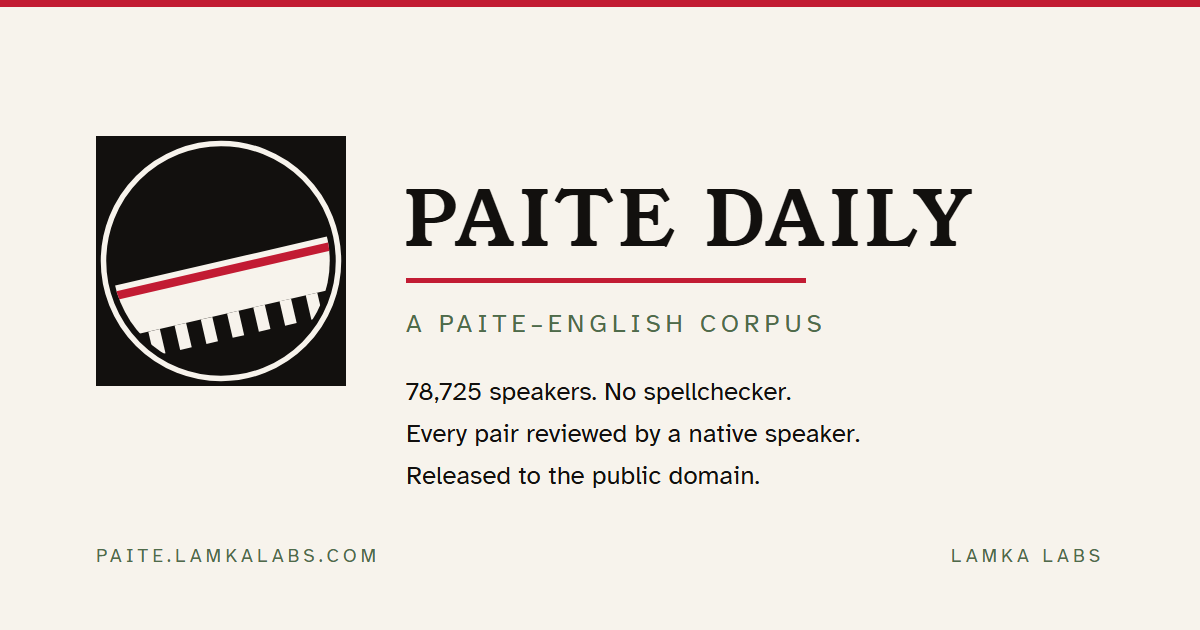
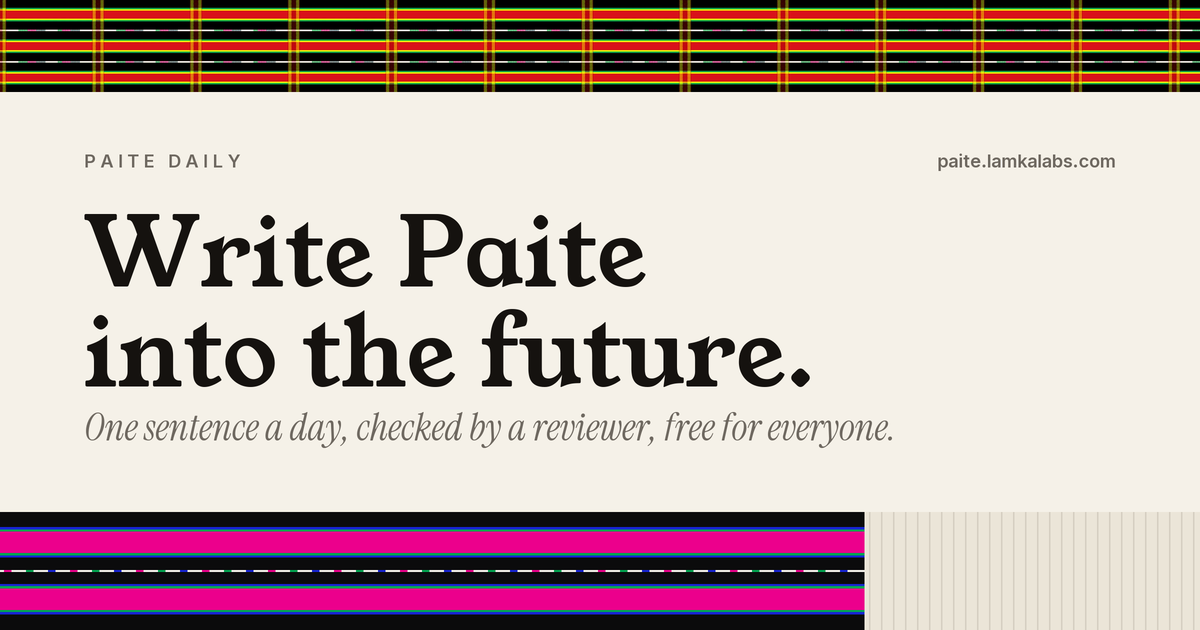
Community shawl in BA / Siamsin Puan, Paite upright / English italic, new share image
- The goal on the front page and Panlate is now one BA / Siamsin Puan woven by
  everyone (shawl.js): paite.org's Siamsin Puan colours (blue #1725d4, magenta
  #ec008c, green #00a651, black) in the real shawl's stripe order, broad magenta
  bands edged green then blue with a dotted white pick line between. Each
  verified sentence is one thread, twenty to a pass; it weaves in from the left
  when seen, shows the thread under the pointer, and keeps the progressbar for
  screen readers.
- Paite upright, English italic: Instrument Serif Italic added to every page;
  English glosses (labels, buttons, rows, chat, titles) set in it under the
  Paite in Young Serif, replacing the stacked small capitals.
- New share image (og.png, 1200x630) in the Ink look; og:image URLs versioned
  (?v=2) so link previews refetch it.
- theme-color follows the theme: paper by day, ink at night.
- Service worker cache raised to v70 and shawl.js precached.

diff --git a/public/shawl.js b/public/shawl.js
@@ -1,0 +1,93 @@
+// The community shawl: the goal drawn as one BA / Siamsin Puan that everyone weaves together.
+// BA / Siamsin Puan is the shawl given to learners who achieve something, so the corpus wears it.
+// Every verified sentence is one thread; the shawl is woven along its length from the left,
+// twenty threads to a pass, until the goal is reached. Colours are paite.org's recommended codes
+// for Siamsin Puan (blue #1725d4, magenta #ec008c, green #00a651, black); the stripe order across
+// the cloth follows the real shawl: broad magenta bands edged green then blue, on black, with a
+// thin white pick line dotted in colour running through the black between them.
+// The numbers come from the goal's progressbar (aria-valuenow / aria-valuemax), filled by app.js
+// on the front page and by the server on Panlate. It weaves in once when it comes into view,
+// holds still for people who ask for reduced motion, and redraws when the theme changes.
+(() => {
+  const c = document.querySelector("canvas.kp"), bar = document.querySelector(".goal-bar[role=progressbar]");
+  if (!c || !bar || !c.getContext) return;
+  const g = c.getContext("2d"), tip = document.querySelector(".kp-tip");
+  const still = matchMedia("(prefers-reduced-motion: reduce)").matches;
+  const BLUE = "#1725d4", PINK = "#ec008c", GREEN = "#00a651", BLACK = "#0b0b0c";
+  // Across the cloth, top to bottom: [colour, weight]. "pick" is the dotted white line.
+  const SETT = [[BLACK, 3], [BLUE, .45], [GREEN, .45], [PINK, 4.2], [GREEN, .45], [BLUE, .45], [BLACK, 2.3], ["pick", .55], [BLACK, 2.3],
+    [BLUE, .45], [GREEN, .45], [PINK, 4.2], [GREEN, .45], [BLUE, .45], [BLACK, 3]];
+  const TOTAL = SETT.reduce((s, [, w]) => s + w, 0), PASS = 20;
+  let W = 0, H = 0, done = 0, goal = 0, shown = 0, t0 = 0, raf = 0, seen = false;
+
+  const light = () => document.documentElement.dataset.theme === "light";
+  function size() {
+    const d = Math.min(devicePixelRatio || 1, 2), r = c.getBoundingClientRect();
+    W = r.width; H = r.height; c.width = Math.max(1, W * d); c.height = Math.max(1, H * d); g.setTransform(d, 0, 0, d, 0, 0);
+  }
+  function draw(n) {
+    const cols = Math.max(1, Math.ceil(goal / PASS)), cw = W / cols, wovenX = (n / goal) * W;
+    // Bare warp: the loom before the weft goes in.
+    g.fillStyle = light() ? "#ebe5d8" : "#1b1917"; g.fillRect(0, 0, W, H);
+    g.fillStyle = light() ? "rgba(21,18,15,.10)" : "rgba(244,241,234,.08)";
+    for (let x = 0; x < cols; x++) g.fillRect(x * cw + cw * .45, 0, Math.max(.6, cw * .12), H);
+    if (n <= 0) return;
+    g.save(); g.beginPath(); g.rect(0, 0, wovenX, H); g.clip();
+    let y = 0;
+    for (const [col, w] of SETT) {
+      const h = (w / TOTAL) * H;
+      if (col === "pick") {
+        g.fillStyle = BLACK; g.fillRect(0, y, W, h);
+        const ly = y + h * .3, lh = Math.max(1, h * .4);
+        g.fillStyle = "#f4f1ea"; g.fillRect(0, ly, W, lh);
+        // The small coloured dashes woven into the pick line.
+        const step = Math.max(10, H * .09), dots = [PINK, GREEN, BLUE];
+        for (let x = 4, i = 0; x < W; x += step, i++) { g.fillStyle = dots[i % 3]; g.fillRect(x, ly, step * .32, lh); }
+      } else { g.fillStyle = col; g.fillRect(0, y, W, Math.ceil(h) + .5); }
+      y += h;
+    }
+    // Twill: fine diagonal shadow, so it reads as cloth.
+    g.strokeStyle = "rgba(0,0,0,.16)"; g.lineWidth = 1; g.beginPath();
+    for (let k = -H; k < wovenX; k += 4) { g.moveTo(k, 0); g.lineTo(k + H, H); } g.stroke();
+    g.restore();
+    // The shuttle at the edge of the work.
+    if (n < goal) {
+      const grd = g.createLinearGradient(wovenX - 26, 0, wovenX + 4, 0);
+      grd.addColorStop(0, "rgba(255,255,255,0)"); grd.addColorStop(1, "rgba(255,226,240,.55)");
+      g.fillStyle = grd; g.fillRect(wovenX - 26, 0, 30, H);
+    }
+  }
+  const frame = (t) => {
+    const p = Math.min(1, (t - t0) / 2600), e = 1 - Math.pow(1 - p, 3);
+    shown = Math.round(done * e); draw(shown);
+    raf = p < 1 ? requestAnimationFrame(frame) : 0;
+  };
+  function start() {
+    done = +bar.getAttribute("aria-valuenow") || 0; goal = +bar.getAttribute("aria-valuemax") || 0;
+    if (!goal) return;
+    size();
+    if (still || seen) { shown = done; draw(done); return; }
+    seen = true; t0 = performance.now(); cancelAnimationFrame(raf); raf = requestAnimationFrame(frame);
+  }
+  // Wait until the numbers are in and the shawl is on screen.
+  const io = "IntersectionObserver" in window
+    ? new IntersectionObserver(([e]) => { if (e.isIntersecting && bar.getAttribute("aria-valuemax")) { io.disconnect(); start(); } })
+    : null;
+  const watch = () => { if (io) io.observe(c); else start(); };
+  if (bar.getAttribute("aria-valuemax")) watch();
+  else new MutationObserver((_, o) => { if (bar.getAttribute("aria-valuemax")) { o.disconnect(); watch(); } }).observe(bar, { attributes: true });
+  addEventListener("resize", () => { if (goal) { size(); draw(shown); } });
+  new MutationObserver(() => { if (goal) draw(shown); }).observe(document.documentElement, { attributes: true, attributeFilter: ["data-theme"] });
+
+  // Hover: which thread is under the pointer.
+  if (tip) {
+    c.addEventListener("pointermove", (e) => {
+      if (!goal) return;
+      const r = c.getBoundingClientRect(), cols = Math.ceil(goal / PASS), x = Math.floor(((e.clientX - r.left) / r.width) * cols), y = Math.floor(((e.clientY - r.top) / r.height) * PASS);
+      const i = Math.min(goal, x * PASS + y + 1);
+      tip.textContent = i <= shown ? `Thread ${i.toLocaleString("en")}` : `Thread ${i.toLocaleString("en")} · not woven yet`;
+      tip.style.left = (e.clientX - r.left) + "px"; tip.style.top = (e.clientY - r.top) + "px"; tip.hidden = false;
+    });
+    c.addEventListener("pointerleave", () => { tip.hidden = true; });
+  }
+})();

diff --git a/src/contributors.ts b/src/contributors.ts
@@ -143,7 +143,7 @@ export function wallNames(d: Pick<Contributors, "contributors" | "reviewers">): 
 // The ranking shows this many places; everyone below folds into one compact box.
 const TOP = 10;
 const goalBar = (g: { verified: number; goal: number }) =>
-  `<div class="goal"><div class="goal-t"><b>${g.verified}</b> / ${g.goal} <span data-s="goalLine">Verified Sentences</span></div><div class="goal-bar" role="progressbar" aria-valuemin="0" aria-valuemax="${g.goal}" aria-valuenow="${g.verified}"><i style="width:${Math.min(100, Math.round((g.verified / g.goal) * 100))}%"></i></div></div>`;
+  `<div class="goal kp-goal"><div class="kp-head"><div class="kp-n"><b>${g.verified}</b><span> / ${g.goal}</span> <span class="kp-unit" data-s="goalLine">Verified Sentences</span></div><div class="kp-name"><b>BA / Siamsin Puan</b><i>The shawl we weave together</i></div></div><div class="kp-wrap"><canvas class="kp" aria-hidden="true"></canvas><span class="kp-tip" hidden></span></div><div class="goal-bar" role="progressbar" aria-label="Verified sentences toward the goal" aria-valuemin="0" aria-valuemax="${g.goal}" aria-valuenow="${g.verified}"><i style="width:${Math.min(100, Math.round((g.verified / g.goal) * 100))}%"></i></div><p class="kp-note">Every thread is one verified sentence, given by one person and checked by another.</p></div><script src="/shawl.js" defer></script>`;
 
 export function renderPage(d: Contributors, css = '<link rel="stylesheet" href="/contributors.css">', siteKey = ""): string {
   const names = wallNames(d);
@@ -184,7 +184,7 @@ export function renderPage(d: Contributors, css = '<link rel="stylesheet" href="
   return `<!doctype html>
 <html lang="en"><head><meta charset="utf-8"><meta name="viewport" content="width=device-width, initial-scale=1, viewport-fit=cover">
 <title>Panlate - Contributors</title>
-<meta name="theme-color" content="#ffffff">
+<meta name="theme-color" content="#f5f1e8">
 <link rel="canonical" href="https://paite.lamkalabs.com/contributors">
 <meta property="og:site_name" content="Paite Daily">
 <meta property="og:type" content="website">
@@ -192,14 +192,14 @@ export function renderPage(d: Contributors, css = '<link rel="stylesheet" href="
 <meta property="og:url" content="https://paite.lamkalabs.com/contributors">
 <meta property="og:title" content="Contributors of Paite Daily">
 <meta property="og:description" content="The people writing Paite into the future. See this week's contributors and reviewers, and add a sentence.">
-<meta property="og:image" content="https://paite.lamkalabs.com/og.png">
+<meta property="og:image" content="https://paite.lamkalabs.com/og.png?v=2">
 <meta property="og:image:width" content="1200">
 <meta property="og:image:height" content="630">
 <meta property="og:image:alt" content="Paite Daily: a Paite–English corpus, verified by native speakers.">
 <meta name="twitter:card" content="summary_large_image">
 <meta name="twitter:title" content="Contributors of Paite Daily">
 <meta name="twitter:description" content="The people writing Paite into the future. See this week's contributors and reviewers, and add a sentence.">
-<meta name="twitter:image" content="https://paite.lamkalabs.com/og.png">
+<meta name="twitter:image" content="https://paite.lamkalabs.com/og.png?v=2">
 <meta name="twitter:image:alt" content="Paite Daily: a Paite–English corpus, verified by native speakers.">
 <link rel="manifest" href="/manifest.webmanifest">
 <link rel="apple-touch-icon" href="/icons/apple-touch-icon.png">
@@ -209,7 +209,7 @@ export function renderPage(d: Contributors, css = '<link rel="stylesheet" href="
 <script>document.documentElement.className="js"</script>
 <link rel="preconnect" href="https://fonts.googleapis.com">
 <link rel="preconnect" href="https://fonts.gstatic.com" crossorigin>
-<link rel="stylesheet" href="https://fonts.googleapis.com/css2?family=Young+Serif&family=Inter:wght@400;600;700&display=swap">
+<link rel="stylesheet" href="https://fonts.googleapis.com/css2?family=Young+Serif&family=Instrument+Serif:ital@1&family=Inter:wght@400;600;700&display=swap">
 <link rel="stylesheet" href="/style.css">
 <script src="/theme.js"></script>
 ${css}</head>

diff --git a/public/index.html b/public/index.html
@@ -4,7 +4,7 @@
 <meta charset="utf-8">
 <meta name="viewport" content="width=device-width, initial-scale=1, viewport-fit=cover">
 <title>Paite Daily — a Paite–English corpus</title>
-<meta name="theme-color" content="#ffffff">
+<meta name="theme-color" content="#f5f1e8">
 <link rel="manifest" href="/manifest.webmanifest">
 <link rel="apple-touch-icon" href="/icons/apple-touch-icon.png">
 <link rel="icon" href="/favicon.ico" sizes="32x32">
@@ -18,18 +18,18 @@
 <meta property="og:url" content="https://paite.lamkalabs.com/">
 <meta property="og:title" content="Paite Daily — a Paite word corpus">
 <meta property="og:description" content="Verified Paite–English pairs, reviewed by native speakers, free to use with credit (CC BY 4.0) for any keyboard, dictionary or translation project.">
-<meta property="og:image" content="https://paite.lamkalabs.com/og.png">
+<meta property="og:image" content="https://paite.lamkalabs.com/og.png?v=2">
 <meta property="og:image:width" content="1200">
 <meta property="og:image:height" content="630">
 <meta property="og:image:alt" content="Paite Daily: a Paite–English corpus, verified by native speakers.">
 <meta name="twitter:card" content="summary_large_image">
 <meta name="twitter:title" content="Paite Daily — a Paite word corpus">
 <meta name="twitter:description" content="Verified Paite–English pairs, reviewed by native speakers, free to use with credit (CC BY 4.0).">
-<meta name="twitter:image" content="https://paite.lamkalabs.com/og.png">
+<meta name="twitter:image" content="https://paite.lamkalabs.com/og.png?v=2">
 <meta name="twitter:image:alt" content="Paite Daily: a Paite–English corpus, verified by native speakers.">
 <link rel="preconnect" href="https://fonts.googleapis.com">
 <link rel="preconnect" href="https://fonts.gstatic.com" crossorigin>
-<link rel="stylesheet" href="https://fonts.googleapis.com/css2?family=Young+Serif&family=Inter:wght@400;600;700&display=swap">
+<link rel="stylesheet" href="https://fonts.googleapis.com/css2?family=Young+Serif&family=Instrument+Serif:ital@1&family=Inter:wght@400;600;700&display=swap">
 <link rel="stylesheet" href="/style.css">
 <script src="/theme.js"></script>
 <script src="https://challenges.cloudflare.com/turnstile/v0/api.js?render=explicit&onload=onTurnstileLoad" defer></script>
@@ -45,7 +45,7 @@
       <a class="share-chip about-chip" href="/about">About This Project <span aria-hidden="true">&rarr;</span></a>
     </nav>
   </header>
-  <div class="goal" id="goal" hidden><div><b id="goal-n"></b> / <span id="goal-max"></span> <span data-s="goalLine"></span></div><div class="goal-bar" id="goal-bar" role="progressbar" aria-valuemin="0"><i></i></div></div>
+  <div class="goal kp-goal" id="goal" hidden><div class="kp-head"><div class="kp-n"><b id="goal-n"></b><span> / <span id="goal-max"></span></span> <span class="kp-unit" data-s="goalLine"></span></div><div class="kp-name"><b>BA / Siamsin Puan</b><i>The shawl we weave together</i></div></div><div class="kp-wrap"><canvas class="kp" aria-hidden="true"></canvas><span class="kp-tip" hidden></span></div><div class="goal-bar" id="goal-bar" role="progressbar" aria-valuemin="0" aria-label="Verified sentences toward the goal"><i></i></div><p class="kp-note">Every thread is one verified sentence, given by one person and checked by another.</p></div>
   <section class="card whatsnew" id="whatsnew" hidden aria-label="What's New">
     <details>
       <summary><span class="news-title">What's New <span class="news-count"></span></span><span class="news-chev" aria-hidden="true">&#8964;</span></summary>
@@ -263,6 +263,7 @@
 <script src="/app.js" defer></script>
 <script src="/chat.js" defer></script>
 <script src="/footer.js" defer></script>
+<script src="/shawl.js" defer></script>
 <script src="/mypuan.js" defer></script>
 <script src="/hear.js" defer></script>
 <script src="/pwa.js" defer></script>

diff --git a/public/style.css b/public/style.css
@@ -777,3 +777,38 @@ body.blue:not(.pauupa) button.primary:hover:not(:disabled)::after, body.blue:not
 .blue.panlate .hero-nav { text-align: left; }
 .blue.panlate .hero .xmas-greet { text-align: center; }
 .blue.panlate .hero h1 small { text-align: center; }
+
+/* THE COMMUNITY SHAWL (12 Nov): the goal as one BA / Siamsin Puan woven by everyone (shawl.js).
+   The progressbar stays in the page for screen readers; the canvas is what people see. */
+.blue .kp-goal { display: grid; gap: 14px; padding-bottom: 40px; color: var(--muted); }
+.kp-head { display: flex; align-items: flex-end; justify-content: space-between; gap: 12px 20px; flex-wrap: wrap; }
+.blue .kp-n { font-variant-numeric: tabular-nums; }
+.blue .kp-n b { font: 400 clamp(2.8rem, 9vw, 5rem)/.9 var(--display); color: var(--fg); letter-spacing: -.035em; }
+.kp-n > span:not(.kp-unit) { font: 400 clamp(1rem, 2.6vw, 1.5rem) var(--display); color: var(--muted); margin-left: 4px; }
+.kp-unit { display: block; margin-top: 6px; font-size: .85rem; }
+.kp-name { text-align: right; line-height: 1.2; }
+.blue .kp-goal .kp-name b { letter-spacing: 0; display: block; font: 400 clamp(1.15rem, 2.6vw, 1.45rem) var(--display); color: var(--fg); }
+.kp-name i { font: italic 400 clamp(1.05rem, 2.4vw, 1.3rem) var(--italic); color: var(--muted); }
+.kp-wrap { position: relative; }
+canvas.kp { display: block; width: 100%; height: clamp(110px, 15vw, 180px); border-radius: 4px; cursor: crosshair; }
+.kp-tip { position: absolute; transform: translate(-50%, calc(-100% - 10px)); pointer-events: none; white-space: nowrap; padding: 5px 9px; border-radius: 6px; background: var(--fg); color: var(--bg); font: 500 .75rem var(--body); }
+.blue .kp-goal .goal-bar { position: absolute; width: 1px; height: 1px; overflow: hidden; clip-path: inset(50%); border: 0; padding: 0; margin: -1px; }
+.kp-note { margin: 0; font: italic 400 1.05rem var(--italic); color: var(--muted); }
+@media (max-width: 520px) { .kp-name { text-align: left; } }
+.blue.cp > .goal.kp-goal { max-width: 980px; margin: 24px auto 0; padding-inline: 16px; }
+
+/* PAITE UPRIGHT, ENGLISH ITALIC (12 Nov). Paite in Young Serif, upright; its English always the
+   quiet italic beneath or beside it, in Instrument Serif Italic. Replaces the stacked tiny caps. */
+body.blue { --italic: "Instrument Serif", Georgia, "Times New Roman", serif; }
+.blue small, .blue .card h2 small, .blue .mypuan h2 small, .blue.cp .hero h1 small, .blue.cp .hero p small, .blue .seg button small, .blue .label small {
+  font-family: var(--italic); font-style: italic; font-weight: 400; letter-spacing: 0; text-transform: none; font-size: max(1em, 1rem); line-height: 1.25;
+}
+.blue .label { font: 400 clamp(1.3rem, 3vw, 1.6rem)/1.15 var(--display); letter-spacing: -.005em; text-transform: none; color: var(--fg); }
+.blue .label small { display: block; margin-top: 3px; font-size: clamp(1.05rem, 2.4vw, 1.25rem); color: var(--muted); }
+.blue .card h2 small, .blue .mypuan h2 small { margin-top: 3px; font-size: clamp(1.05rem, 2.4vw, 1.25rem); color: var(--muted); }
+.blue.cp .hero h1 small { margin-top: 10px; font-size: clamp(1.2rem, 3vw, 1.6rem); color: var(--muted); }
+.blue .pan small { font-size: clamp(1.05rem, 2.6vw, 1.35rem); }
+.blue button small, .blue .cta small { font-size: 1rem; }
+.blue .chat .hello-en { font-family: var(--italic); font-style: italic; font-size: clamp(1.35rem, 3.6vw, 2rem); }
+.blue .bub .eng, .blue .chat-note .answer .eng, .blue #fb-list .en { font-family: var(--italic); font-style: italic; font-size: 1.08rem; }
+.blue .kp-unit small { display: inline; }

diff --git a/src/proverbs.ts b/src/proverbs.ts
@@ -258,7 +258,7 @@ export function renderProverbs(xs: Proverb[], siteKey = ""): string {
   return `<!doctype html>
 <html lang="en" data-sitekey="${esc(siteKey)}"><head><meta charset="utf-8"><meta name="viewport" content="width=device-width, initial-scale=1, viewport-fit=cover">
 <title>Paite Proverbs &amp; Idioms</title>
-<meta name="theme-color" content="#ffffff">
+<meta name="theme-color" content="#f5f1e8">
 <link rel="canonical" href="https://paite.lamkalabs.com/proverbs">
 <meta property="og:site_name" content="Paite Daily">
 <meta property="og:type" content="website">
@@ -266,14 +266,14 @@ export function renderProverbs(xs: Proverb[], siteKey = ""): string {
 <meta property="og:url" content="https://paite.lamkalabs.com/proverbs">
 <meta property="og:title" content="Paite Proverbs &amp; Idioms">
 <meta property="og:description" content="Paite proverbs and idioms with an explainer for each, and English proverbs and idioms waiting for their Paite version.">
-<meta property="og:image" content="https://paite.lamkalabs.com/og.png">
+<meta property="og:image" content="https://paite.lamkalabs.com/og.png?v=2">
 <meta property="og:image:width" content="1200">
 <meta property="og:image:height" content="630">
 <meta property="og:image:alt" content="Paite Daily: a Paite–English corpus, verified by native speakers.">
 <meta name="twitter:card" content="summary_large_image">
 <meta name="twitter:title" content="Paite Proverbs &amp; Idioms">
 <meta name="twitter:description" content="Paite proverbs and idioms, each with an explainer.">
-<meta name="twitter:image" content="https://paite.lamkalabs.com/og.png">
+<meta name="twitter:image" content="https://paite.lamkalabs.com/og.png?v=2">
 <meta name="twitter:image:alt" content="Paite Daily: a Paite–English corpus, verified by native speakers.">
 <link rel="manifest" href="/manifest.webmanifest">
 <link rel="apple-touch-icon" href="/icons/apple-touch-icon.png">
@@ -283,7 +283,7 @@ export function renderProverbs(xs: Proverb[], siteKey = ""): string {
 <script>document.documentElement.className="js"</script>
 <link rel="preconnect" href="https://fonts.googleapis.com">
 <link rel="preconnect" href="https://fonts.gstatic.com" crossorigin>
-<link rel="stylesheet" href="https://fonts.googleapis.com/css2?family=Young+Serif&family=Inter:wght@400;600;700&display=swap">
+<link rel="stylesheet" href="https://fonts.googleapis.com/css2?family=Young+Serif&family=Instrument+Serif:ital@1&family=Inter:wght@400;600;700&display=swap">
 <link rel="stylesheet" href="/style.css">
 <script src="/theme.js"></script>
 <link rel="stylesheet" href="/contributors.css">

diff --git a/src/glossary.ts b/src/glossary.ts
@@ -125,7 +125,7 @@ export function renderGlossary(xs: Entry[]): string {
   return `<!doctype html>
 <html lang="en"><head><meta charset="utf-8"><meta name="viewport" content="width=device-width, initial-scale=1, viewport-fit=cover">
 <title>Paite Word List</title>
-<meta name="theme-color" content="#ffffff">
+<meta name="theme-color" content="#f5f1e8">
 <link rel="canonical" href="https://paite.lamkalabs.com/glossary">
 <meta property="og:site_name" content="Paite Daily">
 <meta property="og:type" content="website">
@@ -133,14 +133,14 @@ export function renderGlossary(xs: Entry[]): string {
 <meta property="og:url" content="https://paite.lamkalabs.com/glossary">
 <meta property="og:title" content="Paite Word List">
 <meta property="og:description" content="The Paite Word List from our contributors: Paite words, English meanings and examples.">
-<meta property="og:image" content="https://paite.lamkalabs.com/og.png">
+<meta property="og:image" content="https://paite.lamkalabs.com/og.png?v=2">
 <meta property="og:image:width" content="1200">
 <meta property="og:image:height" content="630">
 <meta property="og:image:alt" content="Paite Daily: a Paite–English corpus, verified by native speakers.">
 <meta name="twitter:card" content="summary_large_image">
 <meta name="twitter:title" content="Paite Word List">
 <meta name="twitter:description" content="The Paite word list from our contributors: Paite words, English meanings and examples.">
-<meta name="twitter:image" content="https://paite.lamkalabs.com/og.png">
+<meta name="twitter:image" content="https://paite.lamkalabs.com/og.png?v=2">
 <meta name="twitter:image:alt" content="Paite Daily: a Paite–English corpus, verified by native speakers.">
 <link rel="manifest" href="/manifest.webmanifest">
 <link rel="apple-touch-icon" href="/icons/apple-touch-icon.png">
@@ -150,7 +150,7 @@ export function renderGlossary(xs: Entry[]): string {
 <script>document.documentElement.className="js"</script>
 <link rel="preconnect" href="https://fonts.googleapis.com">
 <link rel="preconnect" href="https://fonts.gstatic.com" crossorigin>
-<link rel="stylesheet" href="https://fonts.googleapis.com/css2?family=Young+Serif&family=Inter:wght@400;600;700&display=swap">
+<link rel="stylesheet" href="https://fonts.googleapis.com/css2?family=Young+Serif&family=Instrument+Serif:ital@1&family=Inter:wght@400;600;700&display=swap">
 <link rel="stylesheet" href="/style.css">
 <script src="/theme.js"></script>
 <link rel="stylesheet" href="/contributors.css">

diff --git a/src/about.ts b/src/about.ts
@@ -100,7 +100,7 @@ export function renderAbout(): string {
   return `<!doctype html>
 <html lang="en"><head><meta charset="utf-8"><meta name="viewport" content="width=device-width, initial-scale=1, viewport-fit=cover">
 <title>${TITLE}</title>
-<meta name="theme-color" content="#ffffff">
+<meta name="theme-color" content="#f5f1e8">
 <meta name="description" content="${DESC}">
 <link rel="canonical" href="${CANON}">
 <meta property="og:site_name" content="Paite Daily">
@@ -109,14 +109,14 @@ export function renderAbout(): string {
 <meta property="og:url" content="${CANON}">
 <meta property="og:title" content="${TITLE}">
 <meta property="og:description" content="${DESC}">
-<meta property="og:image" content="https://paite.lamkalabs.com/og.png">
+<meta property="og:image" content="https://paite.lamkalabs.com/og.png?v=2">
 <meta property="og:image:width" content="1200">
 <meta property="og:image:height" content="630">
 <meta property="og:image:alt" content="Paite Daily: a Paite–English corpus, verified by native speakers.">
 <meta name="twitter:card" content="summary_large_image">
 <meta name="twitter:title" content="${TITLE}">
 <meta name="twitter:description" content="${DESC}">
-<meta name="twitter:image" content="https://paite.lamkalabs.com/og.png">
+<meta name="twitter:image" content="https://paite.lamkalabs.com/og.png?v=2">
 <meta name="twitter:image:alt" content="Paite Daily: a Paite–English corpus, verified by native speakers.">
 <link rel="manifest" href="/manifest.webmanifest">
 <link rel="apple-touch-icon" href="/icons/apple-touch-icon.png">
@@ -127,7 +127,7 @@ export function renderAbout(): string {
 <script>document.documentElement.className="js"</script>
 <link rel="preconnect" href="https://fonts.googleapis.com">
 <link rel="preconnect" href="https://fonts.gstatic.com" crossorigin>
-<link rel="stylesheet" href="https://fonts.googleapis.com/css2?family=Young+Serif&family=Inter:wght@400;600;700&display=swap">
+<link rel="stylesheet" href="https://fonts.googleapis.com/css2?family=Young+Serif&family=Instrument+Serif:ital@1&family=Inter:wght@400;600;700&display=swap">
 <link rel="stylesheet" href="/style.css">
 <script src="/theme.js"></script>
 <link rel="stylesheet" href="/contributors.css">

diff --git a/public/theme.js b/public/theme.js
@@ -9,6 +9,13 @@
   let mode = new URLSearchParams(location.search).get("theme");
   try { mode = mode || localStorage.getItem(KEY); } catch {}
   if (mode !== "dark") d.dataset.theme = "light";
+  // The phone's top bar matches the page: paper by day, ink at night.
+  const bar = () => {
+    let m = document.querySelector('meta[name="theme-color"]');
+    if (!m) { m = document.createElement("meta"); m.name = "theme-color"; document.head.append(m); }
+    m.content = d.dataset.theme === "light" ? "#f5f1e8" : "#0c0b0a";
+  };
+  bar();
   const ICON = '<svg class="moon" viewBox="0 0 24 24" aria-hidden="true"><path d="M20 14.5A8 8 0 1 1 9.5 4a6.5 6.5 0 0 0 10.5 10.5z"/></svg>'
     + '<svg class="sun" viewBox="0 0 24 24" aria-hidden="true"><circle cx="12" cy="12" r="4"/><path d="M12 2v2M12 20v2M2 12h2M20 12h2M4.9 4.9l1.4 1.4M17.7 17.7l1.4 1.4M4.9 19.1l1.4-1.4M17.7 6.3l1.4-1.4"/></svg>';
   addEventListener("DOMContentLoaded", () => {
@@ -22,7 +29,7 @@
       const light = d.dataset.theme !== "light";
       if (light) d.dataset.theme = "light"; else delete d.dataset.theme;
       try { localStorage.setItem(KEY, light ? "light" : "dark"); } catch {}
-      label();
+      label(); bar();
     });
     spot.append(b);
   });

diff --git a/src/rules.ts b/src/rules.ts
@@ -73,12 +73,12 @@ export function renderRules(rules: Rule[]): string {
 <link rel="canonical" href="https://paite.lamkalabs.com/rules">
 <meta property="og:title" content="Spelling Danbu · Paite Spelling Rulebook">
 <meta property="og:description" content="How Paite reviewers correct spelling, written down as they work.">
-<meta property="og:image" content="https://paite.lamkalabs.com/og.png">
+<meta property="og:image" content="https://paite.lamkalabs.com/og.png?v=2">
 <link rel="icon" href="/favicon.ico" sizes="32x32">
 <link rel="icon" href="/icons/emblem-small.svg" type="image/svg+xml">
 <link rel="preconnect" href="https://fonts.googleapis.com">
 <link rel="preconnect" href="https://fonts.gstatic.com" crossorigin>
-<link rel="stylesheet" href="https://fonts.googleapis.com/css2?family=Young+Serif&family=Inter:wght@400;600;700&display=swap">
+<link rel="stylesheet" href="https://fonts.googleapis.com/css2?family=Young+Serif&family=Instrument+Serif:ital@1&family=Inter:wght@400;600;700&display=swap">
 <link rel="stylesheet" href="/style.css">
 <script src="/theme.js"></script>
 <link rel="stylesheet" href="/contributors.css">

diff --git a/public/review/proverbs.html b/public/review/proverbs.html
@@ -7,7 +7,7 @@
 <title>Pau Upa review · Paite Review</title>
 <link rel="preconnect" href="https://fonts.googleapis.com">
 <link rel="preconnect" href="https://fonts.gstatic.com" crossorigin>
-<link rel="stylesheet" href="https://fonts.googleapis.com/css2?family=Young+Serif&family=Inter:wght@400;600;700&display=swap">
+<link rel="stylesheet" href="https://fonts.googleapis.com/css2?family=Young+Serif&family=Instrument+Serif:ital@1&family=Inter:wght@400;600;700&display=swap">
 <style>
 :root{--ink:#12100e;--paper:#f4f2ed;--card:#fffdf8;--line:#ddd7c9;--muted:#6b665c;--crimson:#b3253c;--sage:#4f6b4a;--head:"Young Serif",Georgia,serif;--body:"Inter",system-ui,sans-serif}
 *{box-sizing:border-box}

diff --git a/src/places.ts b/src/places.ts
@@ -58,7 +58,7 @@ export function renderPlaces(ps: PlaceCount[]): string {
 <link rel="icon" href="/icons/emblem-small.svg" type="image/svg+xml">
 <link rel="preconnect" href="https://fonts.googleapis.com">
 <link rel="preconnect" href="https://fonts.gstatic.com" crossorigin>
-<link rel="stylesheet" href="https://fonts.googleapis.com/css2?family=Young+Serif&family=Inter:wght@400;600;700&display=swap">
+<link rel="stylesheet" href="https://fonts.googleapis.com/css2?family=Young+Serif&family=Instrument+Serif:ital@1&family=Inter:wght@400;600;700&display=swap">
 <link rel="stylesheet" href="/style.css">
 <script src="/theme.js"></script>
 <link rel="stylesheet" href="/contributors.css">

diff --git a/public/500.html b/public/500.html
@@ -5,8 +5,8 @@
 <meta name="viewport" content="width=device-width, initial-scale=1, viewport-fit=cover">
 <title>Paite Daily is having a moment</title>
 <meta name="robots" content="noindex">
-<meta name="theme-color" content="#ffffff">
-<link rel="stylesheet" href="https://fonts.googleapis.com/css2?family=Young+Serif&family=Inter:wght@400;600;700&display=swap">
+<meta name="theme-color" content="#f5f1e8">
+<link rel="stylesheet" href="https://fonts.googleapis.com/css2?family=Young+Serif&family=Instrument+Serif:ital@1&family=Inter:wght@400;600;700&display=swap">
 <link rel="stylesheet" href="/style.css">
 <script src="/theme.js"></script>
 </head>
